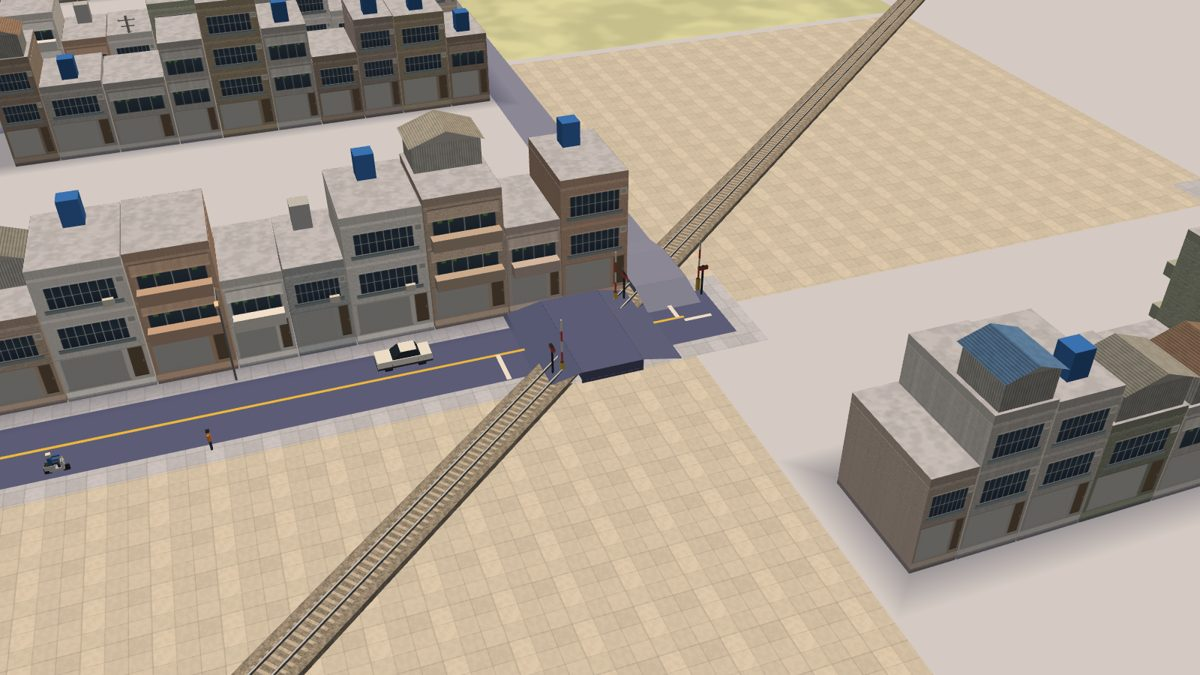
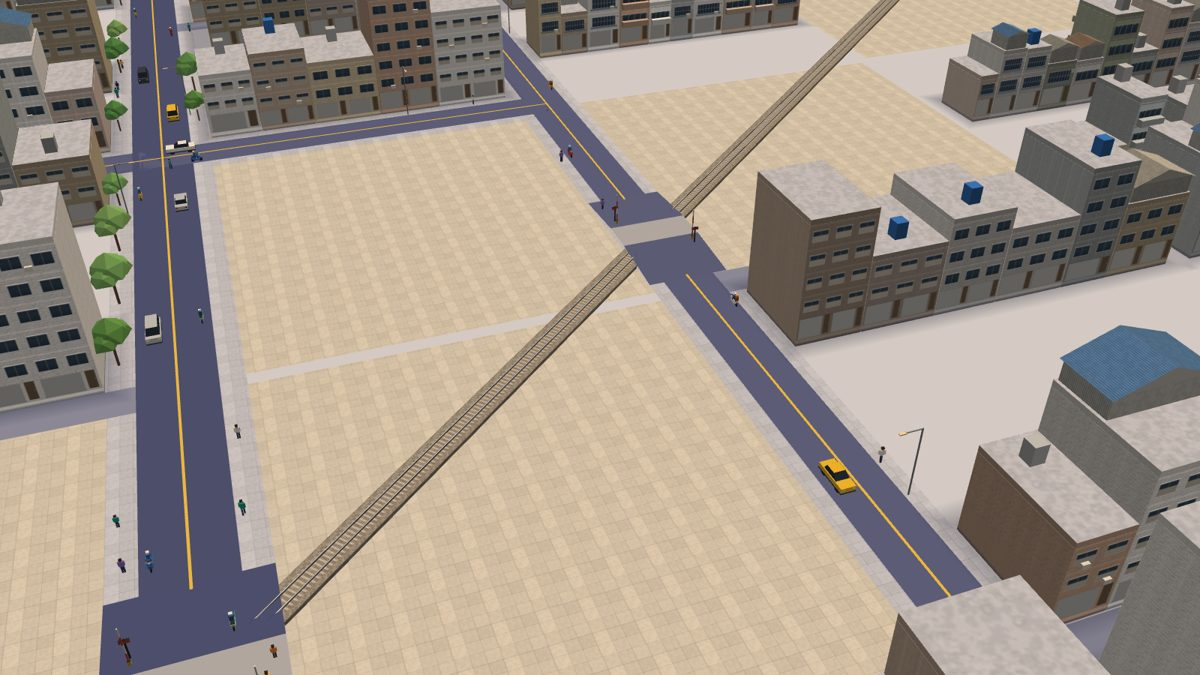
3D map: streets go on over the railway, flat light crossing decks (decision 263)
A main road and half the streets go on across the cells the track
takes, joined by their level crossing; lanes and the other streets end
at the railway, and no crossing is left as a stub. A crossing's deck is
a flat light grey panel over the rails with gentle ramps.

Claude-Session: https://claude.ai/code/session_01EPkWLr5a25LyJvCuvh1U3R

diff --git a/Sources/GamePresentation/Map3DStreets.swift b/Sources/GamePresentation/Map3DStreets.swift
@@ -49,6 +49,26 @@ struct Map3DSeededStreets: Sendable {
                 edges[edge] = kind
             }
         }
+        // A main road or a street (not a lane: lanes end at the railway)
+        // goes on across a short stretch with no lot either side (the
+        // cells the track takes, a plaza): up to three edges between two of
+        // the same line's, so the track does not cut it in two; its level
+        // crossing joins it.
+        var lines: [Edge: [Int]] = [:]
+        for edge in edges.keys { lines[Edge(horizontal: edge.horizontal, line: edge.line, along: 0), default: []].append(edge.along) }
+        for (line, alongs) in lines {
+            let sorted = alongs.sorted()
+            for (a, b) in zip(sorted, sorted.dropFirst()) where b - a > 1 && b - a <= 4 {
+                let gap = (a + 1)..<b
+                let open = gap.allSatisfy { along in
+                    let (first, second) = Self.cells(beside: Edge(horizontal: line.horizontal, line: line.line, along: along))
+                    return built[first] == nil && built[second] == nil
+                }
+                let kind = Self.kind(ofLine: line.line, horizontal: line.horizontal)
+                guard open, Self.crossesTrack(line: line.line, horizontal: line.horizontal) else { continue }
+                for along in gap { edges[Edge(horizontal: line.horizontal, line: line.line, along: along)] = kind }
+            }
+        }
         self.edges = edges
     }
 
@@ -70,6 +90,16 @@ struct Map3DSeededStreets: Sendable {
         return map3DRandom(Int32(truncatingIfNeeded: line), axis, salt: 2635) < 0.55 ? .tertiary : .minor
     }
 
+    /// Whether a grid line's street goes on over the railway: every main
+    /// road, half the streets (seeded), no lane; the rest end at it.
+    static func crossesTrack(line: Int, horizontal: Bool) -> Bool {
+        switch kind(ofLine: line, horizontal: horizontal) {
+        case .primary: true
+        case .tertiary: map3DRandom(Int32(truncatingIfNeeded: line), horizontal ? 1 : 2, salt: 2636) < 0.5
+        default: false
+        }
+    }
+
     /// How far from a street's middle its pavement reaches, metres: where a
     /// house's front may stand.
     static func clearance(_ kind: Map3DBaseMap.RoadKind) -> Float {
@@ -88,9 +118,10 @@ struct Map3DLevelCrossing: Sendable {
     let kind: Map3DBaseMap.RoadKind
 
     /// Half the deck along the street (over a bed 4.6 m wide) and where
-    /// the ramps reach the road again.
+    /// the ramps reach the road again: long and gentle, about 1 in 13
+    /// over the track's raised bed (``Map3DScene/railLift``).
     static let deckHalf: Float = 2.6
-    static let rampEnd: Float = 6
+    static let rampEnd: Float = 12
     /// The deck's top over the rails' line (``Map3DScene/railLift``):
     /// just over the rail heads.
     static let deckRise: Float = 0.22
@@ -266,8 +297,20 @@ extension Map3DScene.Builder {
             case .clear: kept[edge] = kind
             case .blocked: continue
             case .crossing(let at):
+                // A lane, and half the streets, end at the railway.
+                guard Map3DSeededStreets.crossesTrack(line: edge.line, horizontal: edge.horizontal) else { continue }
                 kept[edge] = kind
                 crossingsOn[edge] = at
+            }
+        }
+        // A crossing only where the street goes on both sides of it, never
+        // a stub over the track.
+        for edge in crossingsOn.keys.sorted() {
+            let before = Map3DSeededStreets.Edge(horizontal: edge.horizontal, line: edge.line, along: edge.along - 1)
+            let after = Map3DSeededStreets.Edge(horizontal: edge.horizontal, line: edge.line, along: edge.along + 1)
+            if kept[before] == nil || kept[after] == nil {
+                kept[edge] = nil
+                crossingsOn[edge] = nil
             }
         }
         streetEdges = kept
@@ -335,6 +378,9 @@ extension Map3DScene.Builder {
         let along = crossing.along, across = Map3DPoint(-along.z, 0, along.x)
         let half = crossing.halfWidth, top = crossing.deckTop
         let road = Map3DPalette.road(crossing.kind)
+        // The deck: rubber panels over the rails, the light grey of Taiwan's
+        // crossings.
+        let deck = Self.crossingDeck
         let middle = Map3DPoint(crossing.point.x, 0, crossing.point.z)
         let base = Map3DPoint(middle.x, drawnGround(x: middle.x, z: middle.z), middle.z)
         var corners: [[Map3DPoint]] = []
@@ -347,8 +393,11 @@ extension Map3DScene.Builder {
         let saved = target
         target = .base
         mesh(at: base) { mesh in
-            mesh.addBox(base: base, forward: along, length: 2 * Map3DLevelCrossing.deckHalf, width: 2 * half, height: max(top - base.y, 0.1),
-                        top: road, side: Map3DColor.shaded(road, 0.9))
+            let deckCorners = [-1, 1].flatMap { (end: Float) in
+                [middle + along * (end * Map3DLevelCrossing.deckHalf) + across * (end * half), middle + along * (end * Map3DLevelCrossing.deckHalf) - across * (end * half)]
+            }.map { Map3DPoint($0.x, top, $0.z) }
+            let up = (deckCorners[1] - deckCorners[0]).cross(deckCorners[3] - deckCorners[0]).y > 0
+            mesh.addFacet(up ? deckCorners : deckCorners.reversed(), color: deck)
             for ramp in corners {
                 // Facing up whichever way the end lies.
                 let up = (ramp[1] - ramp[0]).cross(ramp[3] - ramp[0]).y > 0
@@ -387,6 +436,7 @@ extension Map3DScene.Builder {
     }
 
     static let stopWhite = Map3DColor.rgb(0xF4F4F0)
+    static let crossingDeck = Map3DColor.rgb(0xB4B8C2)
     static let barrierYellow = Map3DColor.rgb(0xF2C94C)
     static let barrierBlack = Map3DColor.rgb(0x2B2E34)
     static let barrierRed = Map3DColor.rgb(0xD9473F)

diff --git a/Tests/GamePresentationTests/Map3DStreetsTests.swift b/Tests/GamePresentationTests/Map3DStreetsTests.swift
@@ -37,6 +37,29 @@ final class Map3DStreetsTests: XCTestCase {
         XCTAssertEqual(Map3DSeededStreets(built: dense).edges.count, 2 * 12 * 13)
     }
 
+    func testAStreetGoesOnAcrossTheCellsTheTrackTakes() {
+        // Two lots on a row with two cleared cells (the track's) between.
+        let built = [Map3DScene.ChunkKey(column: 0, row: 0): 1, Map3DScene.ChunkKey(column: 3, row: 0): 1]
+        let streets = Map3DSeededStreets(built: built)
+        for line in [0, 1] {
+            let edges = (0...3).map { Map3DSeededStreets.Edge(horizontal: true, line: line, along: $0) }
+            guard streets.edges[edges[0]] != nil, streets.edges[edges[3]] != nil else { continue }
+            // A main road and half the streets go on; lanes end at it.
+            let goesOn = Map3DSeededStreets.crossesTrack(line: line, horizontal: true)
+            XCTAssertEqual(streets.edges[edges[1]] != nil, goesOn, "line \(line)")
+            XCTAssertEqual(streets.edges[edges[2]] != nil, goesOn, "line \(line)")
+        }
+        // Which lines go on: every main road, no lane, some streets.
+        let lines = (-40...40).map { (Map3DSeededStreets.kind(ofLine: $0, horizontal: true), Map3DSeededStreets.crossesTrack(line: $0, horizontal: true)) }
+        XCTAssertTrue(lines.allSatisfy { $0.0 != .primary || $0.1 })
+        XCTAssertTrue(lines.allSatisfy { $0.0 != .minor || !$0.1 })
+        XCTAssertTrue(lines.contains { $0.0 == .tertiary && $0.1 })
+        XCTAssertTrue(lines.contains { $0.0 == .tertiary && !$0.1 })
+        // Far apart, no.
+        let far = Map3DSeededStreets(built: [Map3DScene.ChunkKey(column: 0, row: 0): 1, Map3DScene.ChunkKey(column: 9, row: 0): 1])
+        XCTAssertNil(far.edges[Map3DSeededStreets.Edge(horizontal: true, line: 0, along: 4)])
+    }
+
     private func builder(track: [Map3DPoint], kind: TrackSectionKind, platform: Bool = false) -> Map3DScene.Builder {
         let world = GameWorld.newGame()
         var builder = Map3DScene.Builder(originX: 0, originY: 0, region: WorldRegion(minX: -64_000, minY: -64_000, maxX: 64_000, maxY: 64_000),
@@ -87,7 +110,7 @@ final class Map3DStreetsTests: XCTestCase {
         XCTAssertEqual(crossing.rise(x: 0, z: 1, road: 0.3), 1.2 + Map3DLevelCrossing.deckRise - 0.3, accuracy: 1e-5)
         XCTAssertEqual(crossing.rise(x: (Map3DLevelCrossing.deckHalf + Map3DLevelCrossing.rampEnd) / 2, z: 0, road: 0.3),
                        (1.2 + Map3DLevelCrossing.deckRise - 0.3) / 2, accuracy: 1e-4, "half way down the ramp")
-        XCTAssertEqual(crossing.rise(x: 10, z: 0, road: 0.3), 0)
+        XCTAssertEqual(crossing.rise(x: 14, z: 0, road: 0.3), 0)
         XCTAssertEqual(crossing.rise(x: 0, z: 30, road: 0.3), 0, "beside the street")
     }
 

diff --git a/docs/ARCHITECTURE.md b/docs/ARCHITECTURE.md
@@ -10604,9 +10604,16 @@ Taiwan.md 只當線索。每一項都另外查過原始或官方資料，Taiwan.
    - **隧道**：照常畫路。
    - **月台**：越過或離它不到路寬＋5.8 m 的那段都不畫，車站前因此不會有平交道。
    - 不畫的路段在那裡斷開，車流照決策 259 在路的兩端縮小消失。
+   - **越過鐵路的只有主要道路與一半的街**（種子決定，`crossesTrack`），巷子和其他街在鐵路前停住。
+     - 越過的路在軌道佔掉的格子（兩邊沒有地塊）裡接著畫，最多 3 格，所以軌道不會把路切成兩截。
+     - 平交道只留在路兩邊都接著的地方，不留越過軌道就斷頭的一小段。
+     - 兩鎮地圖上共 9 處，每個城鎮約 4–5 處。
+   - 遊戲規劃 session 看了第一版預覽後要求：路過了平交道就斷了，要接成同一條；鋪面太厚、太深。
 3. **平交道**（`Map3DLevelCrossing`、`addLevelCrossing`）：
-   - **鋪面**：越過鋼軌、高出鋼軌 0.22 m、沿路 5.2 m 長，畫在任何距離都看得到的那一層。
-   - **坡道**：兩邊各 3.4 m 接回路面。車流的路線經過時一起墊高（`crossingLift`），車不會穿過鋪面。
+   - **鋪面**：一片平的淺灰橡膠墊（`#B4B8C2`），蓋過鋼軌，比鋼軌高 0.22 m，沿路 5.2 m 長，畫在任何距離都看得到的那一層。沒有側面，不是一塊方塊。
+   - **坡道**：兩邊各 9.4 m，約 1:13 的緩坡接回路面。
+     - 3D 地圖的道床一律抬高 0.85 m（決策 231，否則會被地面蓋掉），所以每個平交道都要坡道。
+     - 車流的路線經過時一起墊高（`crossingLift`），車不會穿過鋪面。
    - **近處才畫**：
      - 兩邊各一條停止線，離軌道中心 8 m；
      - 一支黑黃柵欄柱與升起的紅白柵欄，離軌道中心 3.8 m，在駕駛的右手邊；
@@ -10631,7 +10638,7 @@ Taiwan.md 只當線索。每一項都另外查過原始或官方資料，Taiwan.
 | 任何距離都畫的三角形（地面、軌道、道路、玩家建物） | 65,474 | 75,754 |
 | 街道設施的實例（行道樹、路燈、電線桿） | 0 | 3,455 |
 | 車道、行人地點 | 123、368 | 202、330 |
-| 平交道 | — | 5 |
+| 平交道 | — | 9 |
 
 - 多出來的三角形大多是透天厝：一排從 40 m 拉長到將近整個 64 m 的街廓，所以戶數變多。這些只在近處完整畫（決策 238），遠處照舊是簡化版。
 - 街道設施和實景地圖一樣，近處每塊每種模型一次 draw call，所以拉近時每塊最多多 3 次。
@@ -10672,7 +10679,7 @@ Taiwan.md 只當線索。每一項都另外查過原始或官方資料，Taiwan.
 **驗證**：
 - **VERIFIED**（Linux，Swift 6.4）：
   - `swift build --build-tests -Xswiftc -warnings-as-errors` 乾淨；
-  - `Map3DStreetsTests` 6 個測試通過：路的等級與間距、街廓合併與密度、軌道優先（平交道、高架與橋墩、隧道、路堤、月台、小角度、分段的軌道）、平交道的高度、兩鎮場景裡沒有路壓在軌道上也沒有平交道在車站、透天厝的正面；
+  - `Map3DStreetsTests` 7 個測試通過：路的等級與間距、街廓合併與密度、越過軌道佔掉的格子接著畫、軌道優先（平交道、高架與橋墩、隧道、路堤、月台、小角度、分段的軌道）、平交道的高度、兩鎮場景裡沒有路壓在軌道上也沒有平交道在車站、透天厝的正面；
   - 所有 `Map3D*` 測試通過。
   - `Map3DPropsTests` 原本斷言「空白地圖沒有街道設施」，改成「有，沿著種子道路」。這是這一步刻意的改變，不是 golden。
 - **UNVERIFIED**（要 TestFlight 實機）：畫面、場景建構時間、幀數。

diff --git a/docs/art/map3d-seeded-streets-2026-10-16/README.md b/docs/art/map3d-seeded-streets-2026-10-16/README.md
@@ -10,6 +10,6 @@
     - 有些地塊之間沒有路，合成一個街廓；
     - 透天厝沿著街排成一列、正面朝街，街廓中間空出來當後院。
 - `street-close.jpg`：同一區的近照，110 m，上半 `main`、下半新版。
-- `level-crossing.jpg`：新版的平交道，90 m。
-  - 街道越過地面上的軌道時，鋪面墊高蓋過鋼軌，前後有坡道、停止線，兩邊各一支柵欄（升起）與警示燈。
-  - 這張是兩條街在路口同時越過斜過來的軌道。
+- `level-crossing.jpg`：新版的平交道，130 m。
+  - 街道越過地面上的軌道時，一片淺灰的橡膠墊蓋過鋼軌，兩邊是緩坡；有停止線，兩邊各一支柵欄（升起）與警示燈。
+  - 路在軌道佔掉的空地上接著畫，越過軌道後接到對面的街。左下是另一條主要道路的平交道。
